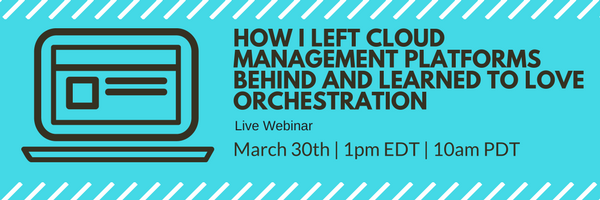
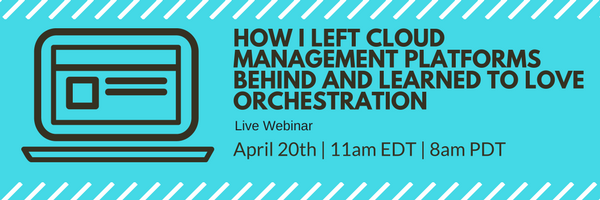
fix speaker

Changed region(s): [[0.39, 0.69, 0.87, 0.81]]

diff --git a/source/webinars/orchestration-vs-cmp-webinar.html b/source/webinars/orchestration-vs-cmp-webinar.html
@@ -1,0 +1,244 @@
+---
+layout: bt_default
+title: Leaving Behind Cloud Management Platforms and using Orchestration | Webinar 
+description: Join the webinar and see how orchestration stacks up to traditional CMP's, and how it's becoming a Cloud Management Platform on steroids.
+category: Webinars
+---
+
+
+
+<div class="jumbotron subhead" id="overview">
+    <h5 class="dwnCenter"></h5>
+    <div class="container dwnTopBanner">
+        <p>&nbsp;</p>        
+        <h2><font color="#3ab9d4"><strong>Live Webinar</strong></font></h2>
+        <h1>How I Left Cloud Management Platforms Behind and Learned to Love Orchestration</h1>
+                <p class="lead">Date: April 20th, 2017 4pm CET | 11am EST | 8am PST</p>
+
+        <div class="row-fluid">
+            <div class="span10">
+            <a class="regBtn" href="#register"><i class="icon-plus"></i>&nbsp;Watch live</a>
+
+                     <div class="row">
+                    <div class="span12">
+                    <img src="/img/cmp-vs-orchestration.png" style="float: right; display: inline;" width="250">
+
+                    </div>
+                    
+                    </div>
+                </div>
+            </div>
+        </div>
+    </div>
+</div>
+</div>
+	
+		<section id="content">
+				<div class="container">
+				<div class="row">		
+					<div class="span7">
+					<br>
+					<br>
+					<br>
+							<h2>Why Orchestration is <strong>the future for Cloud Management Platforms</strong></h2>
+							<p></p>
+							<p>In this webinar we will highlight the up and coming role of Orchestration and why its leaving Cloud Management Platforms behind. Orchestration has been around for a few years now, but it has recently been discovered and put to use by more and more IT Operations Managers, trying to automate their production workloads, and save both time and money.</p>
+							<p>In the new 4.0 Cloudify release, Cloud Management is taking an even greater role, as self services portals, enhanced security and model driven design are being greatly enhanced.</p> 
+							<h3><strong>Highlights</strong></h3>
+							<ul>
+								<li>Orchestrating</li>
+								<li>How Open Source Orchestration is the way to go</li>
+								<li><b>Use Case:</b> Tier-1 Service Provider uses a Cloudify Powered vCPE to continually innovate</li>
+							</ul>	
+							<p>The live webinar will include a live Q&A session, and all registered users will receive a copy of the slides and videos.</p>
+							<p>Read more about the <a href="http://getcloudify.org/2017/02/06/vcpe-20-business-case-open-framework.html"> business case for Open vCPE </a> and how you can start achieving it</p>
+							<h3> Presented by: </h3>
+							<br/><img src="/img/oded-nahum.jpg" width="138" style="float:left; margin-right:10px;">
+							<p><b>Nati Shalom</b>, Founder and CTO at <b>Cloudify</b>. Oded has been constantly pushing the boundary  of what is possible in the world of cloud technology. Oded has over 20 years of experience in the networking and cloud technologies space, and feels at home in a dynamic atmosphere of a rapidly changing IT space. Oded's specialties include Cloud Computing, NFV, SD-WAN, vCPE, Automation and Orchestration, MANO, SDN and more.</p>
+							<br/>
+							<br/><img src="/img/cary-dym.jpg" width="138" style="float:left; margin-right:10px;">
+							<p><b>Sam Melehy</b>, Founder and CEO at <b>Zefflin</b>. Sam is .</p>
+							<br/>
+					</div>
+					<div class="span5">
+					<a name="register">
+					<br>
+					<br>
+					<br>
+						<h2><strong>Register and Watch Now</sup></strong></h2>
+						<!--[if lte IE 8]>
+						<script charset="utf-8" type="text/javascript" src="//js.hsforms.net/forms/v2-legacy.js"></script>
+						<![endif]-->
+						<script charset="utf-8" type="text/javascript" src="//js.hsforms.net/forms/v2.js"></script>
+						<script>
+						  hbspt.forms.create({ 
+						    portalId: '1918719',
+						    formId: '52df6df3-3898-428e-b9d1-ae798e904736',
+								onFormSubmit: function($form) { dataLayer.push({
+								'event' : 'GAevent',
+								'eventCategory': 'Form Completion',
+								'eventAction': 'Submitted vCPE Webinar Form',
+								'eventLabel': 'vCPE Webinar',
+								})
+								}
+				  			});
+						</script>
+					</div>
+				</div>
+				</div>	
+		</section>
+			<section id="content">
+				<div class="container">
+				<div class="row">
+				<div class="span12">
+				<div class="aligncenter">
+				<div class="well"><h2><img src="{{ site.baseurl }}/img/logo.png" width="120"> Learn More about using Cloudify at the<a href="{{ site.baseurl }}/Cloudify-Academy.html"><strong> Cloudify Academy</strong></a></h2></div>
+				</div>
+				</div>
+				</div>
+				</div>
+			</section>	
+		
+<div id="notification_container"></div>
+
+<script type="text/javascript">
+$(function () {
+  var $form = $('#mc-embedded-subscribe-form');
+
+  $('#mc-embedded-subscribe').on('click', function(event) {
+    if(event) event.preventDefault();
+    register($form);
+  });
+});
+
+function register($form) {
+  $.ajax({
+    type: $form.attr('method'),
+    url: $form.attr('action'),
+    data: $form.serialize(),
+    cache       : false,
+    dataType    : 'json',
+    contentType: "application/json; charset=utf-8",
+    error       : function(err) { $('#notification_container').html('<span class="alert">Could not connect to server. Please try again later.</span>'); },
+    success     : function(data) {
+     
+      if (data.result != "success") {
+        var message = data.msg.substring(4);
+        $('#notification_container').html('<span class="alert">'+message+'</span>');
+      } 
+
+      else {
+        var message = data.msg;
+        $('#notification_container').html('<span class="success">'+message+'</span>');
+		track_contactForm();
+		mixpanel.track('Register for NFV', {'page name' : document.title, 'url' : window.location.pathname});	
+      }
+    }
+  });
+}
+</script>
+
+
+<div id="mce-responses" class="clear">
+	<div class="response" id="mce-error-response" style="display:none"></div>
+	<div class="response" id="mce-success-response" style="display:none"></div>
+</div>
+<!-- End MailChimp Signup Form -->
+<div id="messageBox"></div>
+
+                                        <div class="row">
+                               
+											<!-- LeadLander Form Tracking -->
+											<script type="text/javascript">llfrmid=29185</script> 
+											<script type="text/javascript" src="https://formalyzer.com/formalyze_init.js"></script> 
+											<script type="text/javascript" src="https://formalyzer.com/formalyze_call_secure.js"></script>
+											<!-- End LeadLander -->
+                                  
+									
+                        </div> 
+                    </div>
+			</div>
+		</section>
+			
+			
+	
+
+		<section id="bottom">
+			<div class="container">
+
+		<div class="row">
+		<div class="span2"></div>
+		<div class="span8">
+		<div class="aligncenter">
+			
+				<h2><strong>Learn more about Cloudify Premium<sup>TM</sup> or Download Now for Free</sup></strong></h2>
+						<br/>
+							<a class="btn btn-large btn-green btn-rounded" id="goProInner" href="{{ site.baseurl }}/goPro.html"><i class="icon-plus"></i>  Go Pro!</a>
+							&nbsp; &nbsp;
+							<a class="btn btn-large btn-theme btn-rounded" id="downloadBtnInner" href="{{ site.baseurl }}/downloads/get_cloudify.html"><i class="icon-download"></i>  Download Now</a>
+							<br/>
+							</br>
+							</div>
+						
+						</div>
+						<div class="span2"></div>
+					</div>
+					</div>
+			<div class="container">
+			{% include addthis.html %}
+			</div>
+					</section>
+
+<script>
+
+//set download cookie
+function setCookie(key, value) {
+    var expires = new Date();
+    expires.setTime(expires.getTime() + (180 * 24 * 60 * 60 * 1000));
+    document.cookie = key + '=' + value + ';expires=' + expires.toUTCString()+';path=/';
+}
+
+function getCookie(key) {
+    var keyValue = document.cookie.match('(^|;) ?' + key + '=([^;]*)(;|$)');
+    return keyValue ? keyValue[2] : null;
+}
+function track_contactForm() {
+
+		//_gaq.push(['_trackEvent','Product Download', downloadme]);
+       	//track mixpanel
+		if (getCookie('cfydirect') == null) {
+            var formEmail =  $("#mc-embedded-subscribe-form #mce-EMAIL").val();	
+            var formName =  $("#mc-embedded-subscribe-form #mce-FNAME").val();
+			var formcompany =  $("#mc-embedded-subscribe-form #mce-MMERGE3").val();
+			mixpanel.identify(formEmail);
+            mixpanel.alias(formName, formEmail, formcompany);
+            mixpanel.name_tag(formName) ;
+			mixpanel.register();
+			
+			mixpanel.people.set({
+			$email: formEmail,
+			$first_name: formName,
+			$company: formcompany,
+			$created: new Date(),
+			});	
+			//create cookie;
+			setCookie('cfydirect', formName + "," + formEmail + "," + formcompany);	
+			
+			
+        }else{
+			var formEmail = getCookie('cfydirect').split(",")[1];
+			mixpanel.identify(formEmail);
+        }
+
+		
+	}
+	
+	
+	$("#mc-embedded-subscribe-form").validate({
+  submitHandler: function(form) {
+    form.submit();
+  }
+ });
+	
+
+</script>

diff --git a/source/events/achieve-devops-freedom-IT-Control.html b/source/events/achieve-devops-freedom-IT-Control.html
@@ -98,9 +98,6 @@ noindex: true
 					 <br>
 					 <br/><img src="/img/matt-miller.jpg" width="130" style="float:left; margin-right:10px;border-radius: 500px; border-size:5px;border-color:#09AEBD; border-style: solid;  border-width: 4px;">
 					 <p><b>Matt Miller</b>, Director of Software Engineering at FICO. Matt has previously worked at Sony Interactive Entertainment in the World Wide Studios online gaming division. Matt has 20 years of combined experience in the areas of software engineering, data warehousing and DevOps.  Over the last 11 years he has worked on three specific software projects that provided applications for DevOps engineers and Operations. Two of these projects were developed to support the hosting of Playstation Online video games. The third and current project is meant to support the FICO Analytic Cloud.</p>	
-					 <br>
-					 <br/><img src="/img/etroup.jpg" width="130" style="float:left; margin-right:10px;border-radius: 500px; border-size:5px;border-color:#09AEBD; border-style: solid;  border-width: 4px;">
-					 <p><b>Eric Troup</b>, CTO for Worldwide Communications and Media Industry, Microsoft. Troup is responsible for influencing the evolution of cloud platforms and a growing ecosystem of enterprise solutions for customer and infrastructure management, data analytics, AI / Mixed Reality, IOT and service orchestration across cloud platforms, software defined networks and devices.</p>	
 					 <br>				 
 						</div>
 						<a name="registration"></a>	

diff --git a/source/events/introducing-ONAP-meetup.html b/source/events/introducing-ONAP-meetup.html
@@ -66,7 +66,7 @@ noindex: true
 
 					<p><strong>Neela Jacques</strong> is currently Entrepreneur in Residence at Bain Capital Ventures' Palo Alto and San Francisco offices. Prior to that Neela was Executive Director of the OpenDaylight project, guiding the project from infancy to become the de-facto standard open SDN platform. Prior to ODL, Neela helped grow VMware from $400M in revenues to $6B. Neela remains an advisor to the OpenDaylight Project and the Linux Foundation and serves as an advisor and board member at various early stage technology startups.</p><br/>
 
-
+					 <p><strong>Eric Troup</strong>, CTO for Worldwide Communications and Media Industry, Microsoft. Troup is responsible for influencing the evolution of cloud platforms and a growing ecosystem of enterprise solutions for customer and infrastructure management, data analytics, AI / Mixed Reality, IOT and service orchestration across cloud platforms, software defined networks and devices.</p><br>
 
 					<br/>
 

diff --git a/source/open-vcpe-framework.html b/source/open-vcpe-framework.html
@@ -50,7 +50,7 @@ category: workshops
 								<li>Leverage existing assets</li>
 							</ul>		
 							<h3>Who's using Cloudify?</h3>
-							<p>Cloudify is used by leading operators such as AT&T and Deutsche Telekom, and has built-in support for many VNF vendors driven by its <a href="http://getcloudify.org/cloud-native-vnf.html">Cloud Native VNF Partner Program</a>.</p>
+							<p>Cloudify is used by leading operators such as Deutsche Telekom, and has built-in support for many VNF vendors driven by its <a href="http://getcloudify.org/cloud-native-vnf.html">Cloud Native VNF Partner Program</a>.</p>
 							<h3>The Open vCPE Framework Program includes:</h3>
 							<ul>
 								<li>Network and vCPE Use Case Assessment</li>
